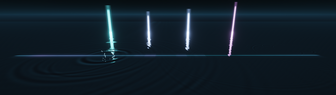
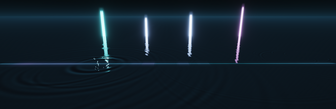
GPU: Ripple Pond refinements from the real-GPU pass
With the display back: the horizon seam (a 30% step where the sky quad met the
water's far clip) is gone because the sky shares the water's sheen function, a
tower's glow no longer shows its quad as a rectangle, the thumbnails are real
RX 580 captures, and the plan records the live-app numbers (120 fps, 1.6 ms GPU,
live crossfades held), the scene cycle, prewarm, the portrait and windowed
checks, and an A/B that found the mipmapped slope read only slightly steadier
than mip 0.

diff --git a/gpu/VISUALIZATION_PLAN.md b/gpu/VISUALIZATION_PLAN.md
@@ -1587,16 +1587,17 @@ lights 22 ms later, when the leader arrives.
 
 - Nothing here has been heard on real music, which this machine does not have; only the synthetic songs. The timing was measured in
   stepped captures and the log, not with a real-time recording of the output.
-- Windowed 2560x720, 1600x450 and 1600x900 were looked at; tall portrait windows were not.
+- Windowed 2560x720, 1600x450 and 1600x900 (with the EQ strip) and a tall portrait window (760x1000, where the bolts are large and the
+  camera still frames them) were looked at.
 - A cloud: the strikes come from nothing above the frame. A faint glow in the sky around the top of each channel was left out to
   keep the field dark; try it if the empty top reads as unfinished.
 - The look browser thumbnails are 12.6 s of the demo; another moment may suit a look better.
 
 ## Milestone 10: Ripple Pond (scene 12 in the table, ID 11)
 
-A dark glossy pool that keeps a record of the last few seconds of hits. IDs: 11 = Ripple Pond. **The monitor was off for most of
-this session** (see the notes at the end), so everything below that needs a display was done on the software renderer or by the new
-windowless harness, and the real-time frame-time run was not done.
+A dark glossy pool that keeps a record of the last few seconds of hits. IDs: 11 = Ripple Pond. **The monitor was off while the
+scene was built**, so the first look at it was on the software renderer and on a new windowless harness on the RX 580; once the display
+was back the real-time runs, the live scene cycle and the thumbnails were done on the real GPU, and what they changed is below.
 
 **Shipped**
 
@@ -1622,7 +1623,10 @@ windowless harness, and the real-time frame-time run was not done.
 - The shading reads a slope texture (`Rgba16Float`: slope in x and z per world unit, and the height), written by a pass after the steps
   from central differences of the exact state, and mipmapped by three box-filter passes; the water samples it with an anisotropic
   (8x) trilinear sampler, so a thin ring far away is averaged over the pixel's footprint instead of aliasing. (The plan feared
-  specular glints aliasing at 120 Hz; whether this removes all shimmer was not judged in motion.)
+  specular glints aliasing at 120 Hz. An A/B on consecutive 120 Hz frames, this read against the same texture read at mip 0 only, found
+  the filtered read about 3-4% steadier from frame to frame in the far and mid water of a 1000x520 window, and no difference near the
+  camera or at 5120x1440, where a pixel covers fewer than two cells even at the far end of the pond; so it is cheap insurance, three tiny
+  passes, not a visible gain at the target size.)
 - The water: near-black, Fresnel (0.09 at normal incidence, strong at grazing angles), mirroring a haze along the horizon and four light
   towers (`rect_light_at`, the Ferrofluid's studio function, now returning where the ray met the light so the reflection fades up the
   tower). Bass is the left tower, the highs the right, each burns with its region's sustained level and flares on its onsets (Flash),
@@ -1637,7 +1641,7 @@ windowless harness, and the real-time frame-time run was not done.
   offscreen targets with a synthetic signal, prints each pass's GPU time and saves the final composite as a PNG. It needs no display, treats any
   wgpu validation error as a failure, and `GEQ_HL_SCENE2` draws a second scene to measure a crossfade.
 
-**Measured** (windowless harness, RX 580 under RADV, 5120x1440, synthetic signal with a hit every half second, GPU times from timestamp queries)
+**Measured, windowless harness** (RX 580 under RADV, 5120x1440, synthetic signal with a hit every half second, GPU times from timestamp queries)
 
 | Case | Simulation (`scene_upd`) | Scene (`scene`) | Bloom | Frame total |
 |------|--------------------------|-----------------|-------|-------------|
@@ -1647,9 +1651,20 @@ windowless harness, and the real-time frame-time run was not done.
 
 `cost_ms` is 1.2. The simulation's cost depends on the aspect, not the pixel count (2560x720 measured 0.25 ms, the scene 0.23 ms). The
 CPU needs 1.2 ms median (2.0 ms p99) to record a frame. Sixty simulated seconds of hits at 2560x720 gave no wgpu errors and no NaN or Inf
-(`GEQ_VIEW=nan`), and the same for Lightning. Prewarm was not measured. **Not measured: frame time in real time at 120 Hz** (the monitor
-was off, which stops presentation; see below). The GPU cost is a fifth of the frame, so the expectation is 120 fps, but it is an
-expectation. Tests: 104 pass (10 are new for the pond, 7 for the storm).
+(`GEQ_VIEW=nan`), and the same for Lightning. Tests: 104 pass (10 are new for the pond, 7 for the storm).
+
+**Measured, the live app** (display on, 5120x1440 fullscreen, `GEQ_FPS=1 GEQ_GPUTIME=1`, the user's session running, nothing else on the GPU):
+
+| Case | fps | frame median / p95 / p99 | GPU: scene, simulation, bloom |
+|------|-----|--------------------------|--------------------------------|
+| Ripple Pond, dense fixture, steady (6 windows) | 119.7-120.2 | 8.0-8.35 / 9.9-10.4 / 12.2-15.3 ms | 0.89 + 0.27 + 0.44 = 1.60 ms |
+| Fireworks, same session, as the control | 119.9-120.1 | 8.2-8.4 / 9.9-10.5 / 13.2-14.7 ms | |
+| Cycle through Lightning's three looks, into the pond and through its looks (7 crossfades, all live) | 119.7-120.7 | 8.2-8.5 / 9.7-10.9 / 11.3-15.0 ms | |
+
+The p99 is the machine's, not the scene's: the control shows the same tail, and the load average was 6 with the desktop's applications busy
+(the same scene gave p99 9.3-9.8 ms on a quieter machine earlier in the day, as the storm did). The GPU times agree with the harness
+(scene 0.89, simulation 0.27, bloom 0.44). Prewarm is 6.2 ms (Lightning's is 10.2). The live app's `GEQ_SHOT` capture of the pond is
+byte-deterministic (two runs hashed identically) and looks like the software renderer's.
 
 Timing, with the percussion and impulse fixtures: a crater is injected in the frame that reports the hit, 33 ms after the drum in the
 stepped 60 Hz captures (the same detector as the other two scenes), so the first ring is there at once; the droplets' rings follow 0.3 to
@@ -1667,6 +1682,11 @@ Fireworks' hit counts are 80, 82, 40, 39, 38, 12, 1, 0: a hit makes a crater and
 - The first sky painted the horizon haze at full strength below the horizon, between the horizon and the water's far clip, where the
   water reflects only a fraction of it: a flat bright band with a hard lower edge. Painting that part as the Fresnel-weighted reflection
   of the haze removed the band and left a thin horizon glow.
+- At full resolution on the real GPU there was a 30% step at the horizon (pixel values 12,25,35 to 15,33,45): the sky quad's water-below-the-
+  horizon formula left out the water's own flat sheen (about 0.012), which the water has everywhere. Making the sky call the same
+  `sheen()` function as the water removed it (measured by reading the column of pixels again).
+- A strip's glow was cut off by its quad: a faint rectangle above each tower, easy to see in a tall portrait window and not at 32:9.
+  The glow now dies away before the quad's edges and top.
 - Four tall towers were pillars that took the picture from the pond (and ran off the top of the frame): shorter (5 to 8 units), thinner
   and farther (z = -25), with their tops in view, they read as lights on the far shore.
 - A pond that mirrors the sky has a fixed far end: the camera's far plane (100 units) clips the water before the horizon, so the sky
@@ -1696,18 +1716,12 @@ Fireworks' hit counts are 80, 82, 40, 39, 38, 12, 1, 0: a hit makes a crater and
 
 **Not done / not verified**
 
-- **Real-time frame time and the live app on the real GPU.** The monitor was off for most of the session (`xset q`: `Monitor is Off`, DPMS
-  timeouts all 0, so it was switched off, the same as on 2026-10-13), and the app's window never presents then. I did not force it on.
-  Everything visual was therefore judged on the software renderer (llvmpipe in a nested X server, `Xephyr`) and on the windowless harness
-  on the RX 580; the unmeasured pieces are the real-time p95 and p99 over a minute, the scene cycle through the pond in the live app, and
-  prewarm.
-- **The Ripple Pond thumbnails (`assets/thumbs/11-*.png`) were captured on the software renderer** (20.4 s of the demo, deterministic:
-  each look hashed identically twice), not on the RX 580. Run `tools/make-thumbs.sh` with the display on to replace them.
-- The `GEQ_SHOT` path on the real GPU was not run for the pond; the windowless harness uses the same compositor and the same shaders, with a
-  synthetic signal, and its 5120x1440 renders were looked at.
 - Nothing here has been heard on real music, which this machine does not have; only the synthetic songs.
-- Motion (the ripples' shimmer under the camera's idle drift, the 120 Hz look of fine rings) was judged from stills and a silence
-  sequence, not watched live. Tall portrait windows were not looked at; 32:9, 16:9 and 1600x450 were.
+- Motion was judged from stills, a silence sequence (calm glass 3.8 s after the last hit: rings still spreading at 0.5 s, nearly gone at
+  2 s) and the frame-difference A/B above, not watched live. The windowed UI (EQ strip below the scene) and a tall portrait window
+  (760x1000) were looked at, as well as 32:9, 16:9 and 1600x450.
+- The Ripple Pond thumbnails (`assets/thumbs/11-*.png`) are real RX 580 captures of 20.4 s of the demo, each look hashed identically twice. At
+  336 px the rings are faint; the towers carry the thumbnail.
 - Not done: the capillary (dispersive) term, a render scale for the water shading (it costs 0.9 ms), a quality setting for the grid.
 
 ## Fix: quieter sound while the app is open (2026-10-13)
